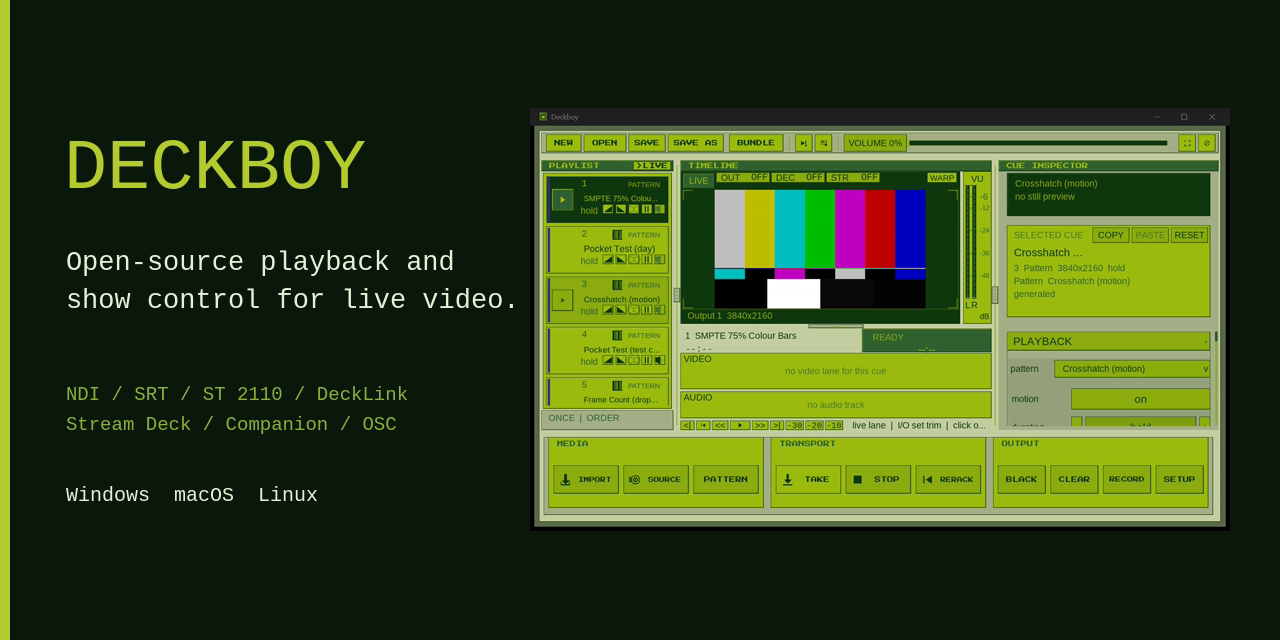
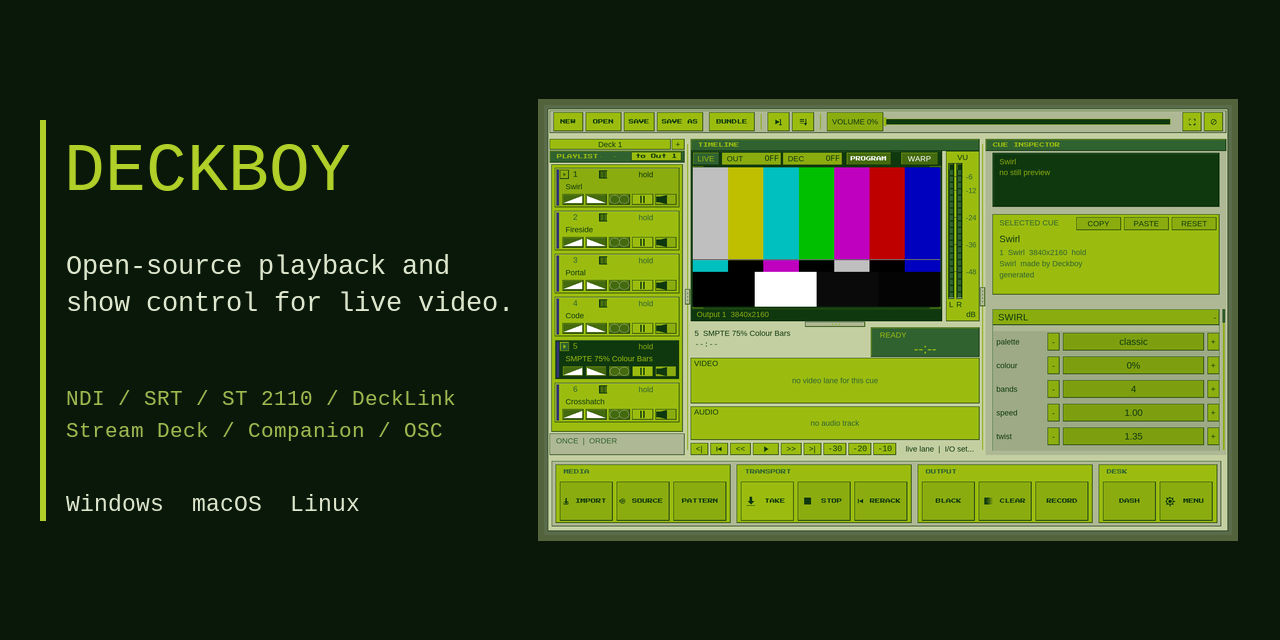
Social card: today's desk (Codex built the capture and the script)
tools/build_social_card.py remakes it after the next UI change (--capture
takes a fresh desk headlessly).

Changed region(s): [[0.0, 0.0, 0.9688, 1.0]]

diff --git a/tools/build_social_card.py b/tools/build_social_card.py
@@ -1,0 +1,200 @@
+#!/usr/bin/env python3
+# SPDX-License-Identifier: GPL-3.0-or-later
+# Copyright (C) 2026 Deckboy Contributors
+"""Build both 1280 x 640 social cards with Pillow and the bundled fonts.
+
+    python tools/build_social_card.py
+    python tools/build_social_card.py --capture --exe build/windows/Release/Deckboy.exe
+
+The default uses art/readme/social-card-desk.png. --capture starts a separate,
+hidden Deckboy with fresh assets/state under build/social-card-*, adds only
+built-in generators over TCP, and captures the actual desk with UISNAP.
+Use a build of this checkout, without private extras. No desktop input or
+screen capture is used. Install Pillow with: python -m pip install Pillow
+"""
+
+import argparse
+import hashlib
+import io
+import json
+import os
+from pathlib import Path
+import socket
+import subprocess
+import tempfile
+import time
+
+from PIL import Image, ImageDraw, ImageFont
+
+from deckboy_testroot import populate
+
+ROOT = Path(__file__).resolve().parent.parent
+DESK = ROOT / "art/readme/social-card-desk.png"
+OUTPUTS = (ROOT / "docs/images/social-card.png", ROOT / "art/readme/social-card.png")
+SIZE = (1280, 640)
+SAFE = 40
+# The established social-card palette, separate from the application's UI.
+GROUND = "#091809"
+ACCENT = "#b0cf28"
+INK = "#e0e8cf"
+MUTED = "#a1bb51"
+FRAME = "#53643d"
+
+
+def command(port, line):
+    with socket.create_connection(("127.0.0.1", port), timeout=10) as sock:
+        sock.sendall((line + "\n").encode("utf-8"))
+        reply = b""
+        while b"\n" not in reply:
+            chunk = sock.recv(65536)
+            if not chunk:
+                raise ConnectionError("Deckboy closed the control connection")
+            reply += chunk
+    result = reply.decode("utf-8").strip()
+    if not result.startswith("OK "):
+        raise RuntimeError(f"{line}: {result}")
+    return result
+
+
+def wait_for(check, seconds=60):
+    deadline = time.monotonic() + seconds
+    while time.monotonic() < deadline:
+        try:
+            result = check()
+            if result:
+                return result
+        except (OSError, ValueError):
+            pass
+        time.sleep(0.15)
+    raise TimeoutError("Timed out waiting for the hidden Deckboy capture")
+
+
+def capture_desk(exe, destination, width, height, scale):
+    exe = exe.resolve(strict=True)
+    (ROOT / "build").mkdir(exist_ok=True)
+    work = Path(tempfile.mkdtemp(prefix="social-card-", dir=ROOT / "build"))
+    root, state = work / "root", work / "state"
+    populate(str(root), source_data=str(ROOT / "data"))
+    state.mkdir()
+    show = root / "data/default.deckboy"
+    show.write_text(
+        f"theme\tgameboy\nui_scale\t{scale}\nupdate_check\t0\nui_sounds\t0\n"
+        "web_monitor\t0\n", encoding="utf-8")
+    with socket.socket() as sock:
+        sock.bind(("127.0.0.1", 0))
+        port = sock.getsockname()[1]
+    # Do not inherit another test's root, project, render or control settings.
+    env = {k: v for k, v in os.environ.items() if not k.startswith("DECKBOY_")}
+    env.update(DECKBOY_ROOT=str(root), DECKBOY_STATE_DIR=str(state),
+               DECKBOY_PROJECT=str(show), DECKBOY_COMPANION_PORT=str(port),
+               DECKBOY_HIDE_WINDOWS="1", SDL_AUDIODRIVER="dummy")
+    transcript = []
+    with (work / "app.log").open("w", encoding="utf-8") as log:
+        app = subprocess.Popen(
+            [str(exe), "--allow-multi-instance", str(show),
+             "--ui-size", str(width), str(height)], cwd=ROOT, env=env,
+            stdout=log, stderr=log,
+            creationflags=getattr(subprocess, "CREATE_NO_WINDOW", 0))
+        try:
+            def ready():
+                if app.poll() is not None:
+                    raise RuntimeError(f"Deckboy exited: {app.returncode}; see {work / 'app.log'}")
+                return command(port, "PING")
+            wait_for(ready)
+            for line in (
+                "OUTPUT OFF", "MASTERVOL 0", "LANGUAGE en",
+                "PATTERN ADD swirl", "PATTERN ADD fireside", "PATTERN ADD portal",
+                "PATTERN ADD code", "PATTERN ADD smpte-bars", "PATTERN ADD crosshatch",
+                "TAKE 5", "SELECT 1",
+            ):
+                transcript.append({"command": line, "reply": command(port, line)})
+            # Let imports, preview generation and transient confirmation toasts settle.
+            time.sleep(5)
+            bitmap = work / "desk.bmp"
+            transcript.append({"command": "UISNAP", "reply": command(port, f"UISNAP {bitmap}")})
+
+            def complete_bitmap():
+                with Image.open(bitmap) as picture:
+                    picture.load()
+                    return picture.convert("RGB")
+            picture = wait_for(complete_bitmap)
+            if picture.size != (width, height):
+                raise RuntimeError(f"Requested {width}x{height}; captured {picture.size}")
+            destination.parent.mkdir(parents=True, exist_ok=True)
+            picture.save(destination, optimize=True)
+            transcript.append({"command": "STATUS", "reply": command(port, "STATUS")})
+        finally:
+            app.terminate()
+            try:
+                app.wait(timeout=10)
+            except subprocess.TimeoutExpired:
+                app.kill()
+                app.wait(timeout=10)
+    (work / "capture.json").write_text(json.dumps({
+        "executable": str(exe), "size": [width, height], "requested_ui_scale": scale,
+        "theme": "gameboy", "commands": transcript,
+        "capture_sha256": hashlib.sha256(destination.read_bytes()).hexdigest(),
+    }, indent=2) + "\n", encoding="utf-8")
+    print(f"Headless capture evidence: {work}")
+
+
+def build_card(screenshot):
+    card = Image.new("RGB", SIZE, GROUND)
+    draw = ImageDraw.Draw(card)
+    mono = ROOT / "data/fonts/LiberationMono-Regular.ttf"
+
+    def text(x, y, value, size, fill, right=520):
+        font = ImageFont.truetype(str(mono), size)
+        box = draw.textbbox((x, y), value, font=font, anchor="lt")
+        if box[0] < SAFE or box[1] < SAFE or box[2] > right or box[3] > SIZE[1] - SAFE:
+            raise ValueError(f"Text outside its safe column: {value}")
+        draw.text((x, y), value, font=font, fill=fill, anchor="lt")
+
+    # Same two-column layout as the original; every mark respects the safe inset.
+    draw.rectangle((40, 120, 45, 520), fill=ACCENT)
+    text(64, 144, "DECKBOY", 68, ACCENT)
+    text(66, 254, "Open-source playback and", 27, INK)
+    text(66, 291, "show control for live video.", 27, INK)
+    text(66, 390, "NDI / SRT / ST 2110 / DeckLink", 21, MUTED)
+    text(66, 422, "Stream Deck / Companion / OSC", 21, MUTED)
+    text(66, 494, "Windows  macOS  Linux", 23, INK)
+
+    with Image.open(screenshot) as source:
+        desk = source.convert("RGB")
+    # Never crop or reconstruct the desk. Fit its whole framebuffer in the frame.
+    desk.thumbnail((688, 490), Image.Resampling.LANCZOS)
+    x, y = 1232 - desk.width, (SIZE[1] - desk.height) // 2
+    border = (x - 6, y - 6, x + desk.width + 5, y + desk.height + 5)
+    if border[0] < 530 or border[1] < SAFE or border[2] >= SIZE[0] - SAFE or border[3] >= SIZE[1] - SAFE:
+        raise ValueError(f"Screenshot does not fit the safe area: {border}")
+    draw.rectangle(border, fill=FRAME)
+    card.paste(desk, (x, y))
+    encoded = io.BytesIO()
+    card.save(encoded, format="PNG", optimize=True)
+    result = encoded.getvalue()
+    if len(result) >= 1_000_000:
+        raise ValueError(f"Card exceeds 1 MB: {len(result)} bytes")
+    for output in OUTPUTS:
+        output.parent.mkdir(parents=True, exist_ok=True)
+        output.write_bytes(result)
+        print(f"{output.relative_to(ROOT)}: 1280 x 640, {len(result):,} bytes")
+    print("SHA-256:", hashlib.sha256(result).hexdigest())
+
+
+def main():
+    parser = argparse.ArgumentParser(description=__doc__, formatter_class=argparse.RawDescriptionHelpFormatter)
+    parser.add_argument("--capture", action="store_true", help="Refresh the actual desk screenshot headlessly first")
+    parser.add_argument("--exe", type=Path, default=ROOT / "build/windows/Release/Deckboy.exe",
+                        help="A public-source Deckboy build from this checkout")
+    parser.add_argument("--screenshot", type=Path, default=DESK)
+    parser.add_argument("--width", type=int, default=1600)
+    parser.add_argument("--height", type=int, default=1000)
+    parser.add_argument("--scale", type=float, default=1.5)
+    args = parser.parse_args()
+    if args.capture:
+        capture_desk(args.exe, args.screenshot, args.width, args.height, args.scale)
+    build_card(args.screenshot)
+
+
+if __name__ == "__main__":
+    main()
